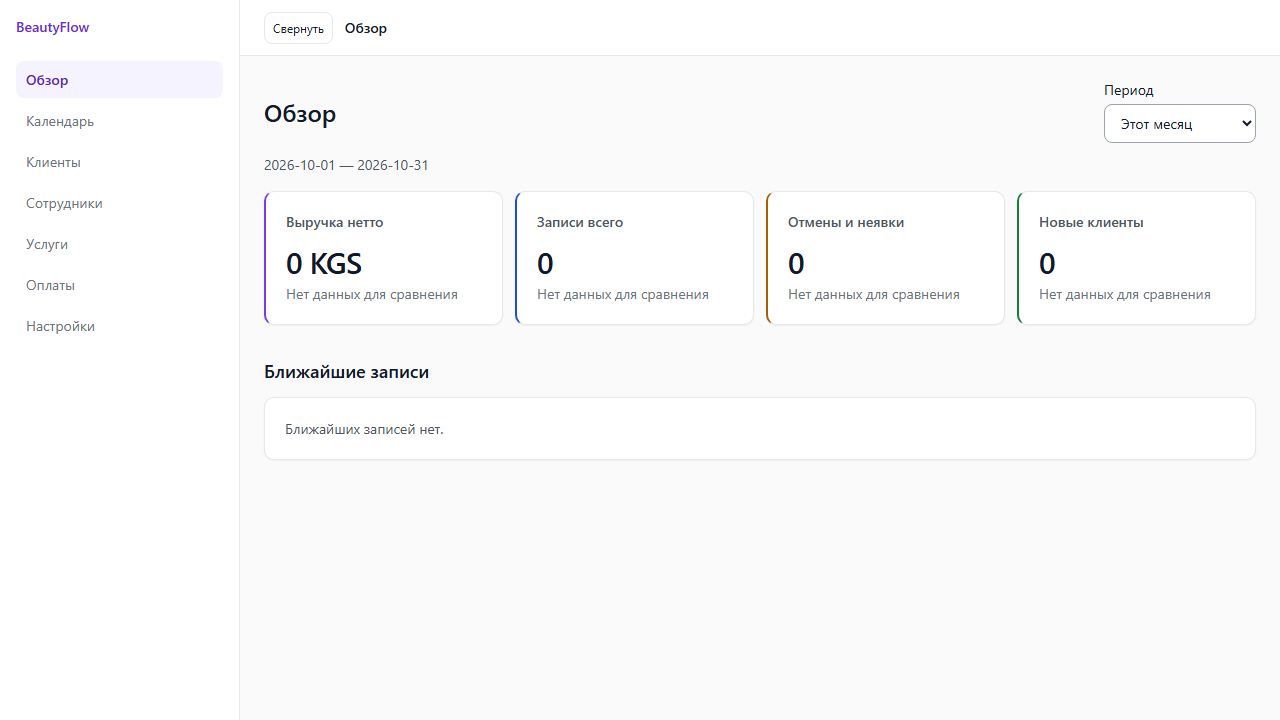
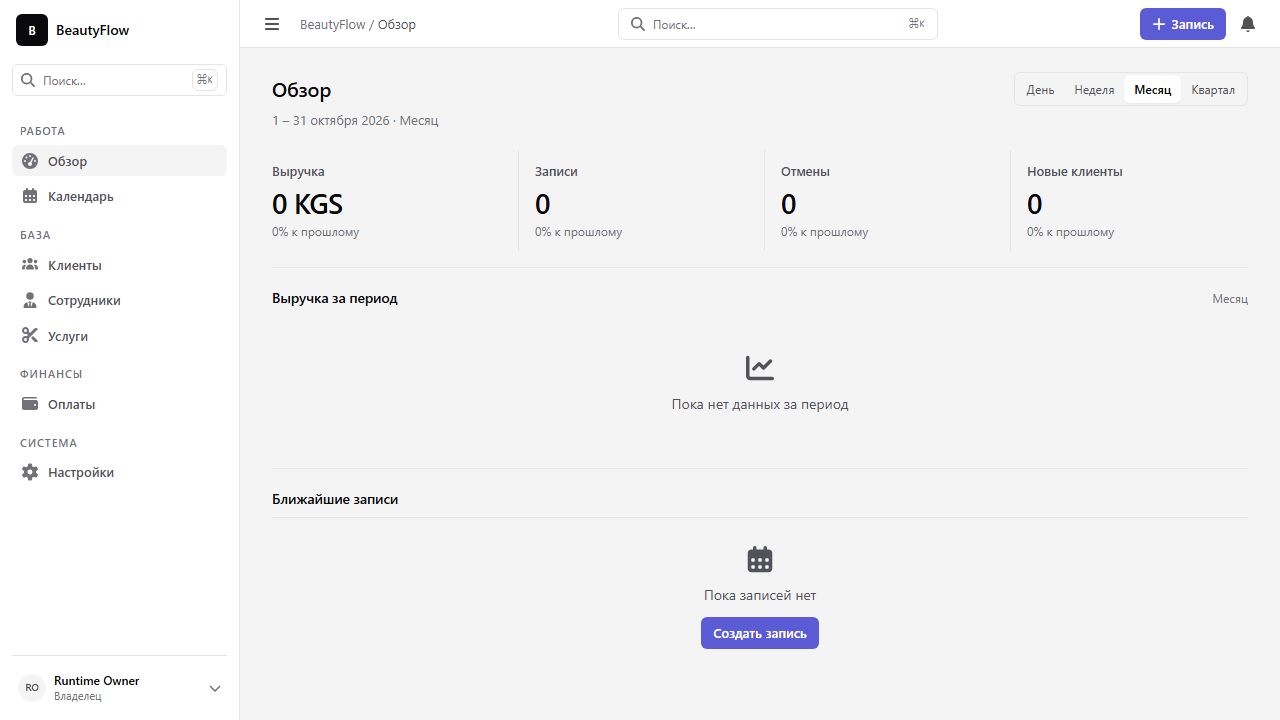
feat(landing): rebuild product landing page

diff --git a/packages/client/src/features/public-landing/Landing.tsx b/packages/client/src/features/public-landing/Landing.tsx
@@ -1,7 +1,12 @@
 import { useEffect } from 'react';
+import { FontAwesomeIcon } from '@fortawesome/react-fontawesome';
+import { faBell, faCalendarDays, faChartLine, faClipboardCheck, faScissors, faShieldHalved, faUsers, faWallet, faDisplay, faClock, faArrowRight } from '@fortawesome/free-solid-svg-icons';
 import { Link } from 'react-router';
 import { ru } from '@/shared/i18n/ru';
 import { useSession } from '@/hooks/use-session';
+
+const featureIcons = [faCalendarDays, faClipboardCheck, faUsers, faWallet, faBell, faChartLine];
+const benefitIcons = [faShieldHalved, faClock, faDisplay, faBell];
 
 export function LandingPage() {
   const session = useSession();
@@ -24,34 +29,32 @@ export function LandingPage() {
 
   const signedIn = Boolean(session.data);
   const appPath = session.data?.active.role === 'master' ? '/app/my-day' : '/app/dashboard';
+  const primaryHref = signedIn ? appPath : '/register';
 
-  return <main className="landing-page overflow-hidden text-neutral-900">
-    <header className="sticky top-0 z-40 border-b border-neutral-200 bg-neutral-0">
-      <nav aria-label="Навигация по странице" className="mx-auto flex max-w-7xl items-center justify-between gap-4 px-4 py-3 md:px-8">
-        <a aria-label="BeautyFlow — начало страницы" className="text-xl font-bold tracking-tight text-primary-800" href="#top">BeautyFlow</a>
-        <div className="hidden items-center gap-6 text-sm font-medium text-neutral-700 md:flex">{text.nav.map((label, index) => <a className="transition-colors hover:text-primary-700" href={['#features', '#how-it-works', '#benefits', '#demo'][index]} key={label}>{label}</a>)}</div>
-        <div className="flex items-center gap-2"><Link className="hidden rounded-md px-3 py-2 text-sm font-medium text-neutral-700 sm:inline-flex" to="/login">{text.login}</Link><Link className="inline-flex h-10 items-center rounded-md bg-primary-600 px-4 text-sm font-medium text-neutral-0 transition-colors hover:bg-primary-700" to={signedIn ? appPath : '/register'}>{signedIn ? text.openApp : text.start}</Link></div>
+  return <main className="overflow-hidden text-neutral-900">
+    <header className="sticky top-0 z-40 border-b border-neutral-200 bg-neutral-0/95 backdrop-blur">
+      <nav aria-label="Навигация по странице" className="mx-auto flex h-14 max-w-[1440px] items-center justify-between gap-4 px-5 md:px-8">
+        <a aria-label="BeautyFlow — начало страницы" className="text-sm font-semibold tracking-tight" href="#top">BeautyFlow</a>
+        <div className="hidden items-center gap-6 text-[13px] text-neutral-600 md:flex">{text.nav.map((label, index) => <a className="transition-colors hover:text-neutral-900" href={['#features', '#how-it-works', '#benefits', '#demo'][index]} key={label}>{label}</a>)}</div>
+        <div className="flex items-center gap-2"><Link className="hidden rounded-md px-3 py-1.5 text-[13px] font-medium text-neutral-600 hover:bg-neutral-50 sm:inline-flex" to="/login">{text.login}</Link><Link className="inline-flex h-8 items-center rounded-md bg-primary-600 px-3 text-[13px] font-medium text-white transition-colors hover:bg-primary-700" to={primaryHref}>{signedIn ? text.openApp : text.start}</Link></div>
       </nav>
     </header>
 
-    <section className="landing-hero relative isolate" id="top">
-      <div aria-hidden="true" className="landing-glow landing-glow-one"/><div aria-hidden="true" className="landing-glow landing-glow-two"/>
-      <div className="mx-auto grid min-h-[620px] max-w-7xl items-center gap-12 px-5 py-16 md:grid-cols-2 md:px-8 md:py-24">
-        <div className="relative z-10" data-reveal><p className="mb-5 inline-flex rounded-md border border-neutral-200 bg-neutral-0 px-3 py-1.5 text-xs font-medium text-neutral-600">{text.eyebrow}</p><h1 className="max-w-2xl text-4xl font-semibold leading-tight tracking-tight text-neutral-900 sm:text-5xl">{text.headline}</h1><p className="mt-5 max-w-xl text-lg leading-8 text-neutral-600">{text.subheadline}</p><div className="mt-7 flex flex-wrap gap-3"><Link className="inline-flex h-11 items-center rounded-md bg-primary-600 px-5 text-sm font-medium text-neutral-0 transition-colors hover:bg-primary-700" to={signedIn ? appPath : '/register'}>{signedIn ? text.openApp : text.start}</Link><a className="inline-flex h-11 items-center rounded-md border border-neutral-300 bg-neutral-0 px-5 text-sm font-medium text-neutral-800 transition-colors hover:bg-neutral-100" href="#features">{text.explore}</a></div></div>
-        <figure className="landing-mockup relative z-10 mx-auto w-full max-w-xl overflow-hidden rounded-lg border border-neutral-200 bg-neutral-0 shadow-lg" data-reveal><img className="block h-auto w-full" src="/images/dashboard-preview.png" alt="Скриншот обзора BeautyFlow с KPI и ближайшими записями" /></figure>
-      </div>
+    <section className="mx-auto grid max-w-[1440px] items-center gap-10 px-5 py-14 sm:py-20 md:grid-cols-[minmax(300px,0.8fr)_minmax(0,1.2fr)] md:px-8 md:py-24" id="top">
+      <div data-reveal><h1 className="max-w-[620px] text-[42px] font-semibold leading-[1.06] tracking-[-0.03em] sm:text-5xl lg:text-[56px]">{text.headline}</h1><p className="mt-5 max-w-[540px] text-base leading-7 text-neutral-600 sm:text-lg">{text.subheadline}</p><div className="mt-7 flex flex-wrap gap-2"><Link className="inline-flex h-9 items-center rounded-md bg-primary-600 px-4 text-sm font-medium text-white transition-colors hover:bg-primary-700" to={primaryHref}>{signedIn ? text.openApp : text.start}</Link><Link className="inline-flex h-9 items-center rounded-md border border-neutral-200 bg-neutral-0 px-4 text-sm font-medium text-neutral-800 transition-colors hover:bg-neutral-50" to="/login">{text.login}</Link></div></div>
+      <figure className="landing-mockup w-full overflow-hidden rounded-xl border border-neutral-200 bg-neutral-0" data-reveal><img className="block h-auto w-full" src="/images/dashboard-preview.png" alt={text.dashboardAlt}/></figure>
     </section>
 
-    <section className="mx-auto max-w-7xl px-5 py-20 md:px-8" id="features"><div className="mx-auto max-w-2xl text-center" data-reveal><h2 className="mt-3 text-3xl font-semibold tracking-tight sm:text-4xl">{text.featuresTitle}</h2></div><div className="mt-10 grid gap-4 sm:grid-cols-2 lg:grid-cols-3">{text.features.map((feature, index) => <article className="rounded-lg border border-neutral-200 bg-neutral-0 p-5 shadow-sm transition-colors hover:border-neutral-300" data-reveal key={feature.title}><p className="mb-6 text-xs font-medium tabular-nums text-primary-700">{String(index + 1).padStart(2, '0')}</p><h3 className="text-base font-semibold">{feature.title}</h3><p className="mt-2 text-sm leading-6 text-neutral-600">{feature.description}</p></article>)}</div></section>
+    <section className="mx-auto max-w-[1440px] px-5 py-16 md:px-8 md:py-20" id="features"><div className="max-w-2xl" data-reveal><h2 className="text-2xl font-semibold tracking-tight sm:text-3xl">{text.featuresTitle}</h2></div><div className="mt-10 grid gap-x-10 gap-y-9 sm:grid-cols-2 lg:grid-cols-3">{text.features.map((feature, index) => <article className="flex gap-4" data-reveal key={feature.title}><FontAwesomeIcon aria-hidden="true" className="mt-0.5 size-5 shrink-0 text-neutral-500" icon={featureIcons[index] ?? faScissors}/><div><h3 className="text-[15px] font-semibold">{feature.title}</h3><p className="mt-1.5 text-sm leading-6 text-neutral-600">{feature.description}</p></div></article>)}</div></section>
 
-    <section className="bg-primary-50/80 py-20" id="how-it-works"><div className="mx-auto max-w-7xl px-5 md:px-8"><div className="mx-auto max-w-2xl text-center" data-reveal><h2 className="text-3xl font-bold sm:text-4xl">{text.stepsTitle}</h2></div><ol className="mt-12 grid gap-6 md:grid-cols-3">{text.steps.map((step, index) => <li className="rounded-lg border border-neutral-200 bg-neutral-0 p-7 shadow-sm" data-reveal key={step.title}><span className="grid size-12 place-items-center rounded-full bg-primary-600 text-xl font-bold text-white shadow-sm">{index + 1}</span><h3 className="mt-5 text-xl font-bold">{step.title}</h3><p className="mt-2 leading-6 text-neutral-600">{step.description}</p></li>)}</ol></div></section>
+    <section className="border-y border-neutral-200 bg-neutral-50 py-16 md:py-20" id="how-it-works"><div className="mx-auto max-w-[1440px] px-5 md:px-8"><h2 className="text-2xl font-semibold tracking-tight sm:text-3xl" data-reveal>{text.stepsTitle}</h2><ol className="mt-8 grid gap-8 md:grid-cols-3">{text.steps.map((step, index) => <li className="flex gap-4" data-reveal key={step.title}><span className="grid size-8 shrink-0 place-items-center rounded-full border border-neutral-300 text-sm font-medium tabular-nums text-neutral-700">{index + 1}</span><div><h3 className="text-sm font-semibold">{step.title}</h3><p className="mt-1.5 text-sm leading-6 text-neutral-600">{step.description}</p></div></li>)}</ol></div></section>
 
-    <section className="mx-auto max-w-7xl px-5 py-20 md:px-8" id="demo"><div className="text-center" data-reveal><h2 className="text-3xl font-bold sm:text-4xl">{text.demoTitle}</h2></div><div className="mt-10 grid gap-5 md:grid-cols-3">{text.demoLabels.map((label, index) => <div className="rounded-lg border border-neutral-200 bg-neutral-0 p-3 shadow-sm" data-reveal key={label}><div className={`demo-screen demo-screen-${index + 1} grid min-h-52 content-start gap-3 rounded-2xl bg-white p-4`}><div className="h-3 w-1/3 rounded-full bg-primary-200"/><div className="grid grid-cols-3 gap-2">{[0, 1, 2].map((item) => <div className="h-14 rounded-xl bg-primary-50 shadow-sm" key={item}/>)}</div><div className="h-20 rounded-xl bg-primary-100/80"/><div className="h-3 w-2/3 rounded-full bg-neutral-100"/></div><p className="px-2 pb-2 pt-4 font-semibold text-primary-900">{label}</p></div>)}</div></section>
+    <section className="mx-auto max-w-[1440px] px-5 py-16 md:px-8 md:py-20" id="demo"><div className="flex flex-wrap items-end justify-between gap-3" data-reveal><div><p className="text-xs font-medium uppercase tracking-[0.08em] text-neutral-500">BeautyFlow</p><h2 className="mt-2 text-2xl font-semibold tracking-tight sm:text-3xl">{text.demoTitle}</h2></div><a className="inline-flex items-center gap-2 text-sm font-medium text-neutral-600 hover:text-neutral-900" href="/login">{text.demoLink}<FontAwesomeIcon aria-hidden="true" className="size-3.5" icon={faArrowRight}/></a></div><figure className="landing-mockup mt-8 overflow-hidden rounded-xl border border-neutral-200 bg-neutral-0" data-reveal><img className="block h-auto w-full" src="/images/calendar-preview.png" alt={text.calendarAlt}/></figure><p className="mt-3 text-xs text-neutral-500">{text.calendarCaption}</p></section>
 
-    <section className="bg-neutral-50 py-20" id="benefits"><div className="mx-auto max-w-7xl px-5 md:px-8"><h2 className="max-w-2xl text-3xl font-bold sm:text-4xl" data-reveal>{text.uniqueTitle}</h2><div className="mt-10 grid gap-4 sm:grid-cols-2">{text.unique.map((item, index) => <article className="flex gap-4 rounded-lg bg-neutral-0 p-6 shadow-sm" data-reveal key={item.title}><span className="grid size-10 shrink-0 place-items-center rounded-full bg-primary-100 font-bold text-primary-800">0{index + 1}</span><div><h3 className="font-bold">{item.title}</h3><p className="mt-2 text-sm leading-6 text-neutral-600">{item.description}</p></div></article>)}</div></div></section>
+    <section className="border-y border-neutral-200 bg-neutral-50 py-16 md:py-20" id="benefits"><div className="mx-auto max-w-[1440px] px-5 md:px-8"><h2 className="text-2xl font-semibold tracking-tight sm:text-3xl" data-reveal>{text.uniqueTitle}</h2><div className="mt-8 grid gap-x-10 gap-y-8 sm:grid-cols-2">{text.unique.map((item, index) => <article className="flex gap-4" data-reveal key={item.title}><FontAwesomeIcon aria-hidden="true" className="mt-0.5 size-5 shrink-0 text-neutral-500" icon={benefitIcons[index] ?? faShieldHalved}/><div><h3 className="text-sm font-semibold">{item.title}</h3><p className="mt-1.5 text-sm leading-6 text-neutral-600">{item.description}</p></div></article>)}</div></div></section>
 
-    <section className="px-5 py-20 md:px-8"><div className="mx-auto max-w-5xl rounded-lg bg-[#111827] px-6 py-14 text-center text-white sm:px-12" data-reveal><h2 className="text-3xl font-semibold sm:text-4xl">{text.ctaTitle}</h2><p className="mx-auto mt-4 max-w-xl text-neutral-300 leading-7">{text.ctaText}</p><Link className="mt-7 inline-flex h-10 items-center rounded-md bg-white px-5 text-sm font-medium text-neutral-900 transition-colors hover:bg-neutral-100" to={signedIn ? appPath : '/register'}>{signedIn ? text.openApp : text.start}</Link></div></section>
+    <section className="bg-[#09090B] px-5 py-16 text-white md:px-8 md:py-20"><div className="mx-auto max-w-[1440px]" data-reveal><h2 className="max-w-3xl text-3xl font-semibold tracking-tight sm:text-4xl">{text.ctaTitle}</h2><p className="mt-3 max-w-xl text-sm leading-6 text-neutral-300">{text.ctaText}</p><Link className="mt-6 inline-flex h-9 items-center rounded-md bg-primary-600 px-4 text-sm font-medium text-white transition-colors hover:bg-primary-700" to={primaryHref}>{signedIn ? text.openApp : text.start}</Link></div></section>
 
-    <footer className="border-t border-primary-100 bg-white/80"><div className="mx-auto flex max-w-7xl flex-col gap-3 px-5 py-8 text-sm text-neutral-600 sm:flex-row sm:items-center sm:justify-between md:px-8"><a className="font-bold text-primary-800" href="#top">BeautyFlow</a><p>{text.footer}</p><Link className="font-semibold text-primary-800 hover:underline" to="/login">{text.login}</Link></div></footer>
+    <footer className="border-t border-neutral-200 bg-neutral-0"><div className="mx-auto max-w-[1440px] px-5 py-10 md:px-8"><div className="grid grid-cols-2 gap-8 sm:grid-cols-4">{text.footerGroups.map((group) => <section key={group.title}><h2 className="text-xs font-semibold uppercase tracking-[0.06em] text-neutral-500">{group.title}</h2><ul className="mt-3 grid gap-2 text-[13px] text-neutral-600">{group.links.map((item) => <li key={item.label}>{item.href.startsWith('#') ? <a className="hover:text-neutral-900" href={item.href}>{item.label}</a> : <Link className="hover:text-neutral-900" to={item.href}>{item.label}</Link>}</li>)}</ul></section>)}</div><div className="mt-9 flex flex-wrap items-center justify-between gap-3 border-t border-neutral-200 pt-4"><a className="text-sm font-semibold" href="#top">BeautyFlow</a><p className="text-xs text-neutral-500">{text.footer}</p><p className="text-xs text-neutral-500">© {new Date().getFullYear()} BeautyFlow</p></div></div></footer>
   </main>;
 }

diff --git a/packages/shared/src/i18n/ru.ts b/packages/shared/src/i18n/ru.ts
@@ -53,11 +53,11 @@ export const ru = {
     login: 'Войти',
     start: 'Начать бесплатно',
     openApp: 'Открыть приложение',
-    eyebrow: 'Спокойный порядок в каждом рабочем дне',
-    headline: 'Ваш салон. Ваш ритм. Всё под контролем.',
-    subheadline: 'Онлайн-запись, календарь команды, клиенты и оплаты — в одном простом пространстве.',
-    explore: 'Посмотреть возможности',
-    featuresTitle: 'Всё для заботы о клиентах и команде',
+    eyebrow: 'BeautyFlow',
+    headline: 'Онлайн-запись для салонов. Работает.',
+    subheadline: 'Записи, команда, клиенты и оплаты в одной системе. Настройте расписание и принимайте записи онлайн.',
+    explore: 'Войти',
+    featuresTitle: 'Рабочие инструменты салона',
     features: [
       { title: 'Онлайн-запись', description: 'Клиенты выбирают услугу и удобное время сами.' },
       { title: 'Календарь', description: 'Расписание команды и записи на одном экране.' },
@@ -66,24 +66,34 @@ export const ru = {
       { title: 'Уведомления', description: 'Подтверждения и напоминания помогают не забыть о визите.' },
       { title: 'Аналитика', description: 'Понимайте, как идут дела, по ясным показателям.' },
     ],
-    stepsTitle: 'Начать просто',
+    stepsTitle: 'Как это работает',
     steps: [
       { title: 'Создайте пространство', description: 'Добавьте название и настройки своего бизнеса.' },
       { title: 'Настройте команду', description: 'Добавьте мастеров, услуги и расписание.' },
       { title: 'Принимайте записи', description: 'Поделитесь ссылкой и управляйте визитами.' },
     ],
-    demoTitle: 'Один взгляд — и день понятен',
+    demoTitle: 'Расписание команды',
     demoLabels: ['Обзор дня', 'Команда', 'Записи'],
-    uniqueTitle: 'Создано для реальной работы салона',
+    demoLink: 'Открыть приложение',
+    dashboardAlt: 'Обзор BeautyFlow: показатели бизнеса и ближайшие записи',
+    calendarAlt: 'Недельный календарь BeautyFlow с расписанием сотрудников',
+    calendarCaption: 'Неделя, сотрудники и записи в одном календаре.',
+    uniqueTitle: 'Для ежедневной работы',
     unique: [
       { title: 'Без двойных записей', description: 'Защита расписания от одновременного выбора одного времени.' },
       { title: 'Данные каждого бизнеса отдельно', description: 'Рабочие данные доступны только вашей команде.' },
       { title: 'Удобно на любом экране', description: 'Можно работать с компьютера, планшета или телефона.' },
       { title: 'Напоминания о визите', description: 'Автоматические письма помогают клиентам помнить о записи.' },
     ],
-    ctaTitle: 'Пусть расписание работает на вас',
-    ctaText: 'Создайте рабочее пространство и настройте его под свой салон.',
-    footer: 'BeautyFlow — пространство для спокойной и уверенной работы салона.',
+    ctaTitle: 'Управляйте записями в одном месте.',
+    ctaText: 'Создайте аккаунт, добавьте услуги и откройте клиентам онлайн-запись.',
+    footer: 'Система управления записью для салонов красоты.',
+    footerGroups: [
+      { title: 'Продукт', links: [{ label: 'Возможности', href: '#features' }, { label: 'Календарь', href: '#demo' }] },
+      { title: 'Начало работы', links: [{ label: 'Регистрация', href: '/register' }, { label: 'Войти', href: '/login' }] },
+      { title: 'Компания', links: [{ label: 'Как работает', href: '#how-it-works' }, { label: 'Преимущества', href: '#benefits' }] },
+      { title: 'Аккаунт', links: [{ label: 'Открыть приложение', href: '/login' }, { label: 'Создать бизнес', href: '/register' }] },
+    ],
     mockRevenue: 'Выручка за месяц',
     mockAppointments: 'Записи сегодня',
     mockUpcoming: 'Ближайшая запись',

diff --git a/tests/e2e/a11y/key-screens.spec.ts b/tests/e2e/a11y/key-screens.spec.ts
@@ -25,7 +25,7 @@ async function expectNoSeriousAxeViolations(page: Page, screen: string): Promise
 }
 
 test('key owner and public screens pass axe and fit required viewports', async ({ page }) => {
-  test.setTimeout(120_000);
+  test.setTimeout(240_000);
   await registerOwner(page, `${Date.now()}`);
 
   const staffResponse = await page.request.post('http://localhost:3000/api/staff', {
@@ -48,7 +48,7 @@ test('key owner and public screens pass axe and fit required viewports', async (
   const settings = (await (await page.request.get('http://localhost:3000/api/settings')).json()).data as { business: { slug: string } };
 
   const screens = [
-    ['/', 'Ваш салон. Ваш ритм. Всё под контролем.'],
+    ['/', 'Онлайн-запись для салонов. Работает.'],
     ['/login', 'Войти'],
     ['/register', 'Создать бизнес'],
     ['/app/dashboard', 'Обзор'],
@@ -95,7 +95,7 @@ test('key owner and public screens pass axe and fit required viewports', async (
         await expect(page.getByRole('button', { name: 'Открыть меню' })).toBeVisible();
         await page.getByRole('button', { name: 'Открыть меню' }).click();
         await expect(page.getByRole('navigation', { name: 'Основная навигация' })).toBeVisible();
-        await page.getByRole('button', { name: 'Закрыть меню' }).click();
+        await page.getByRole('button', { name: 'Закрыть меню' }).click({ position: { x: width - 8, y: 120 } });
       }
     }
   }
@@ -145,3 +145,4 @@ test('key owner and public screens pass axe and fit required viewports', async (
   await page.keyboard.press('Enter');
   await expect(page.getByRole('heading', { name: 'Запись оформлена' })).toBeVisible();
 });
+
